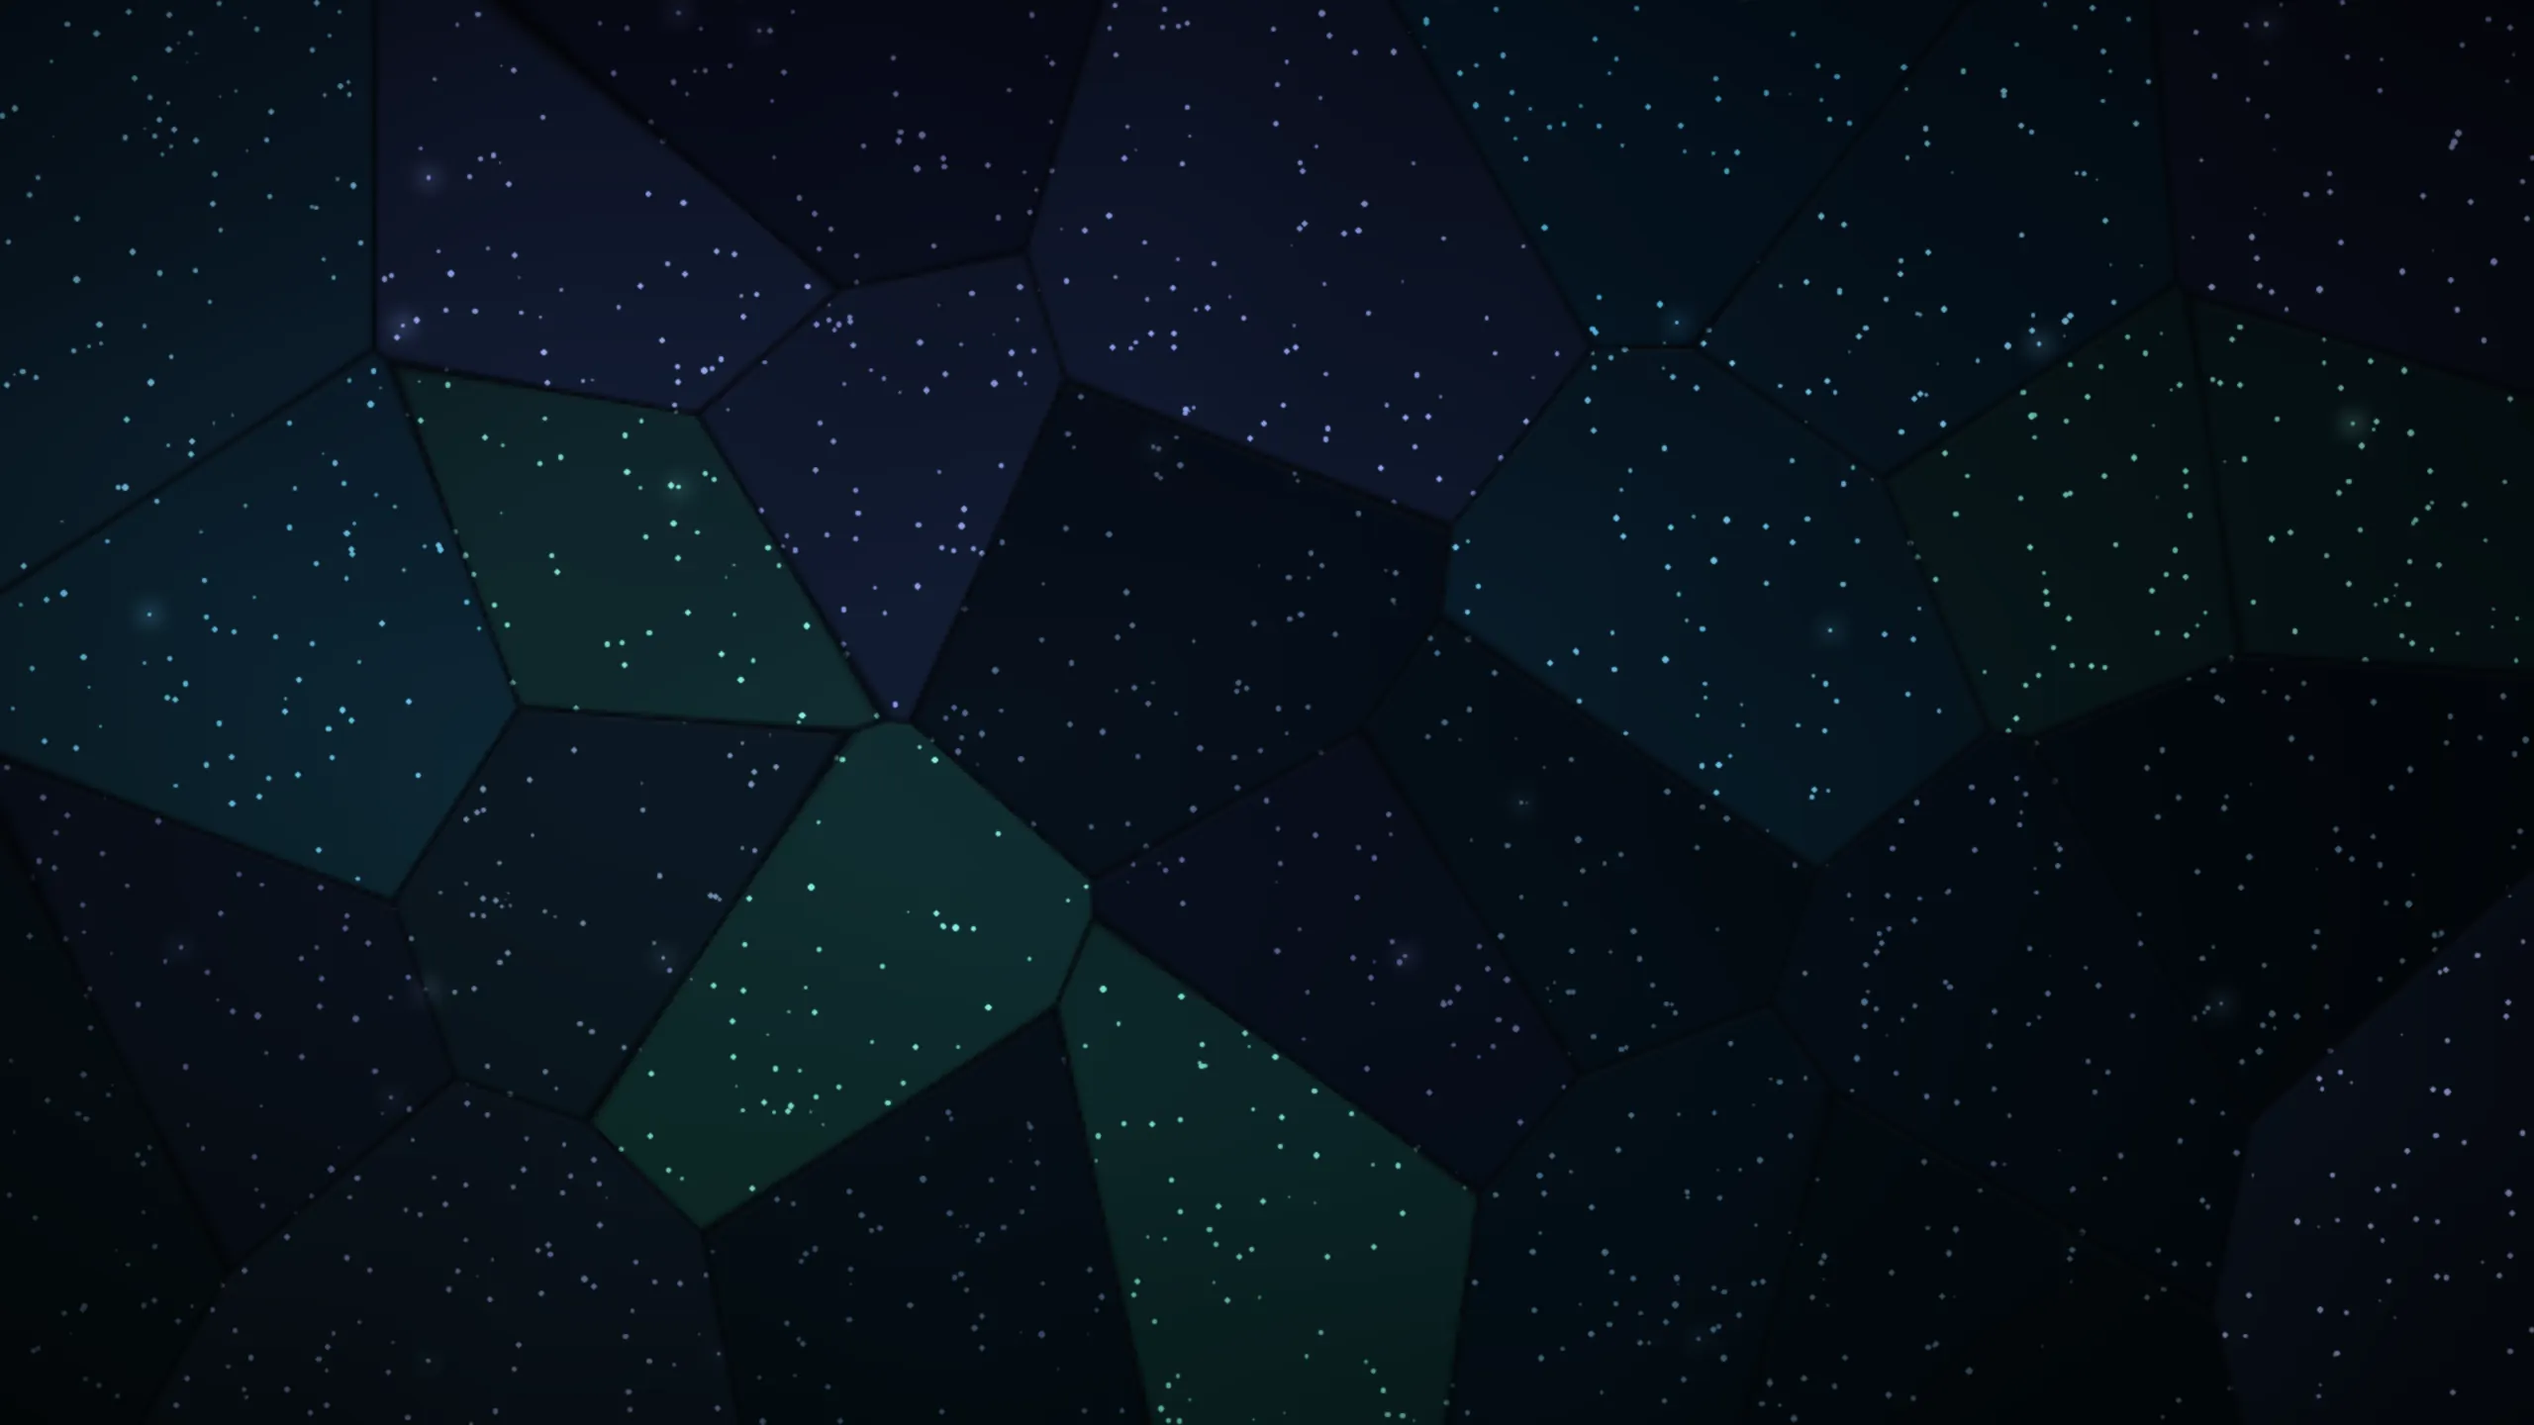
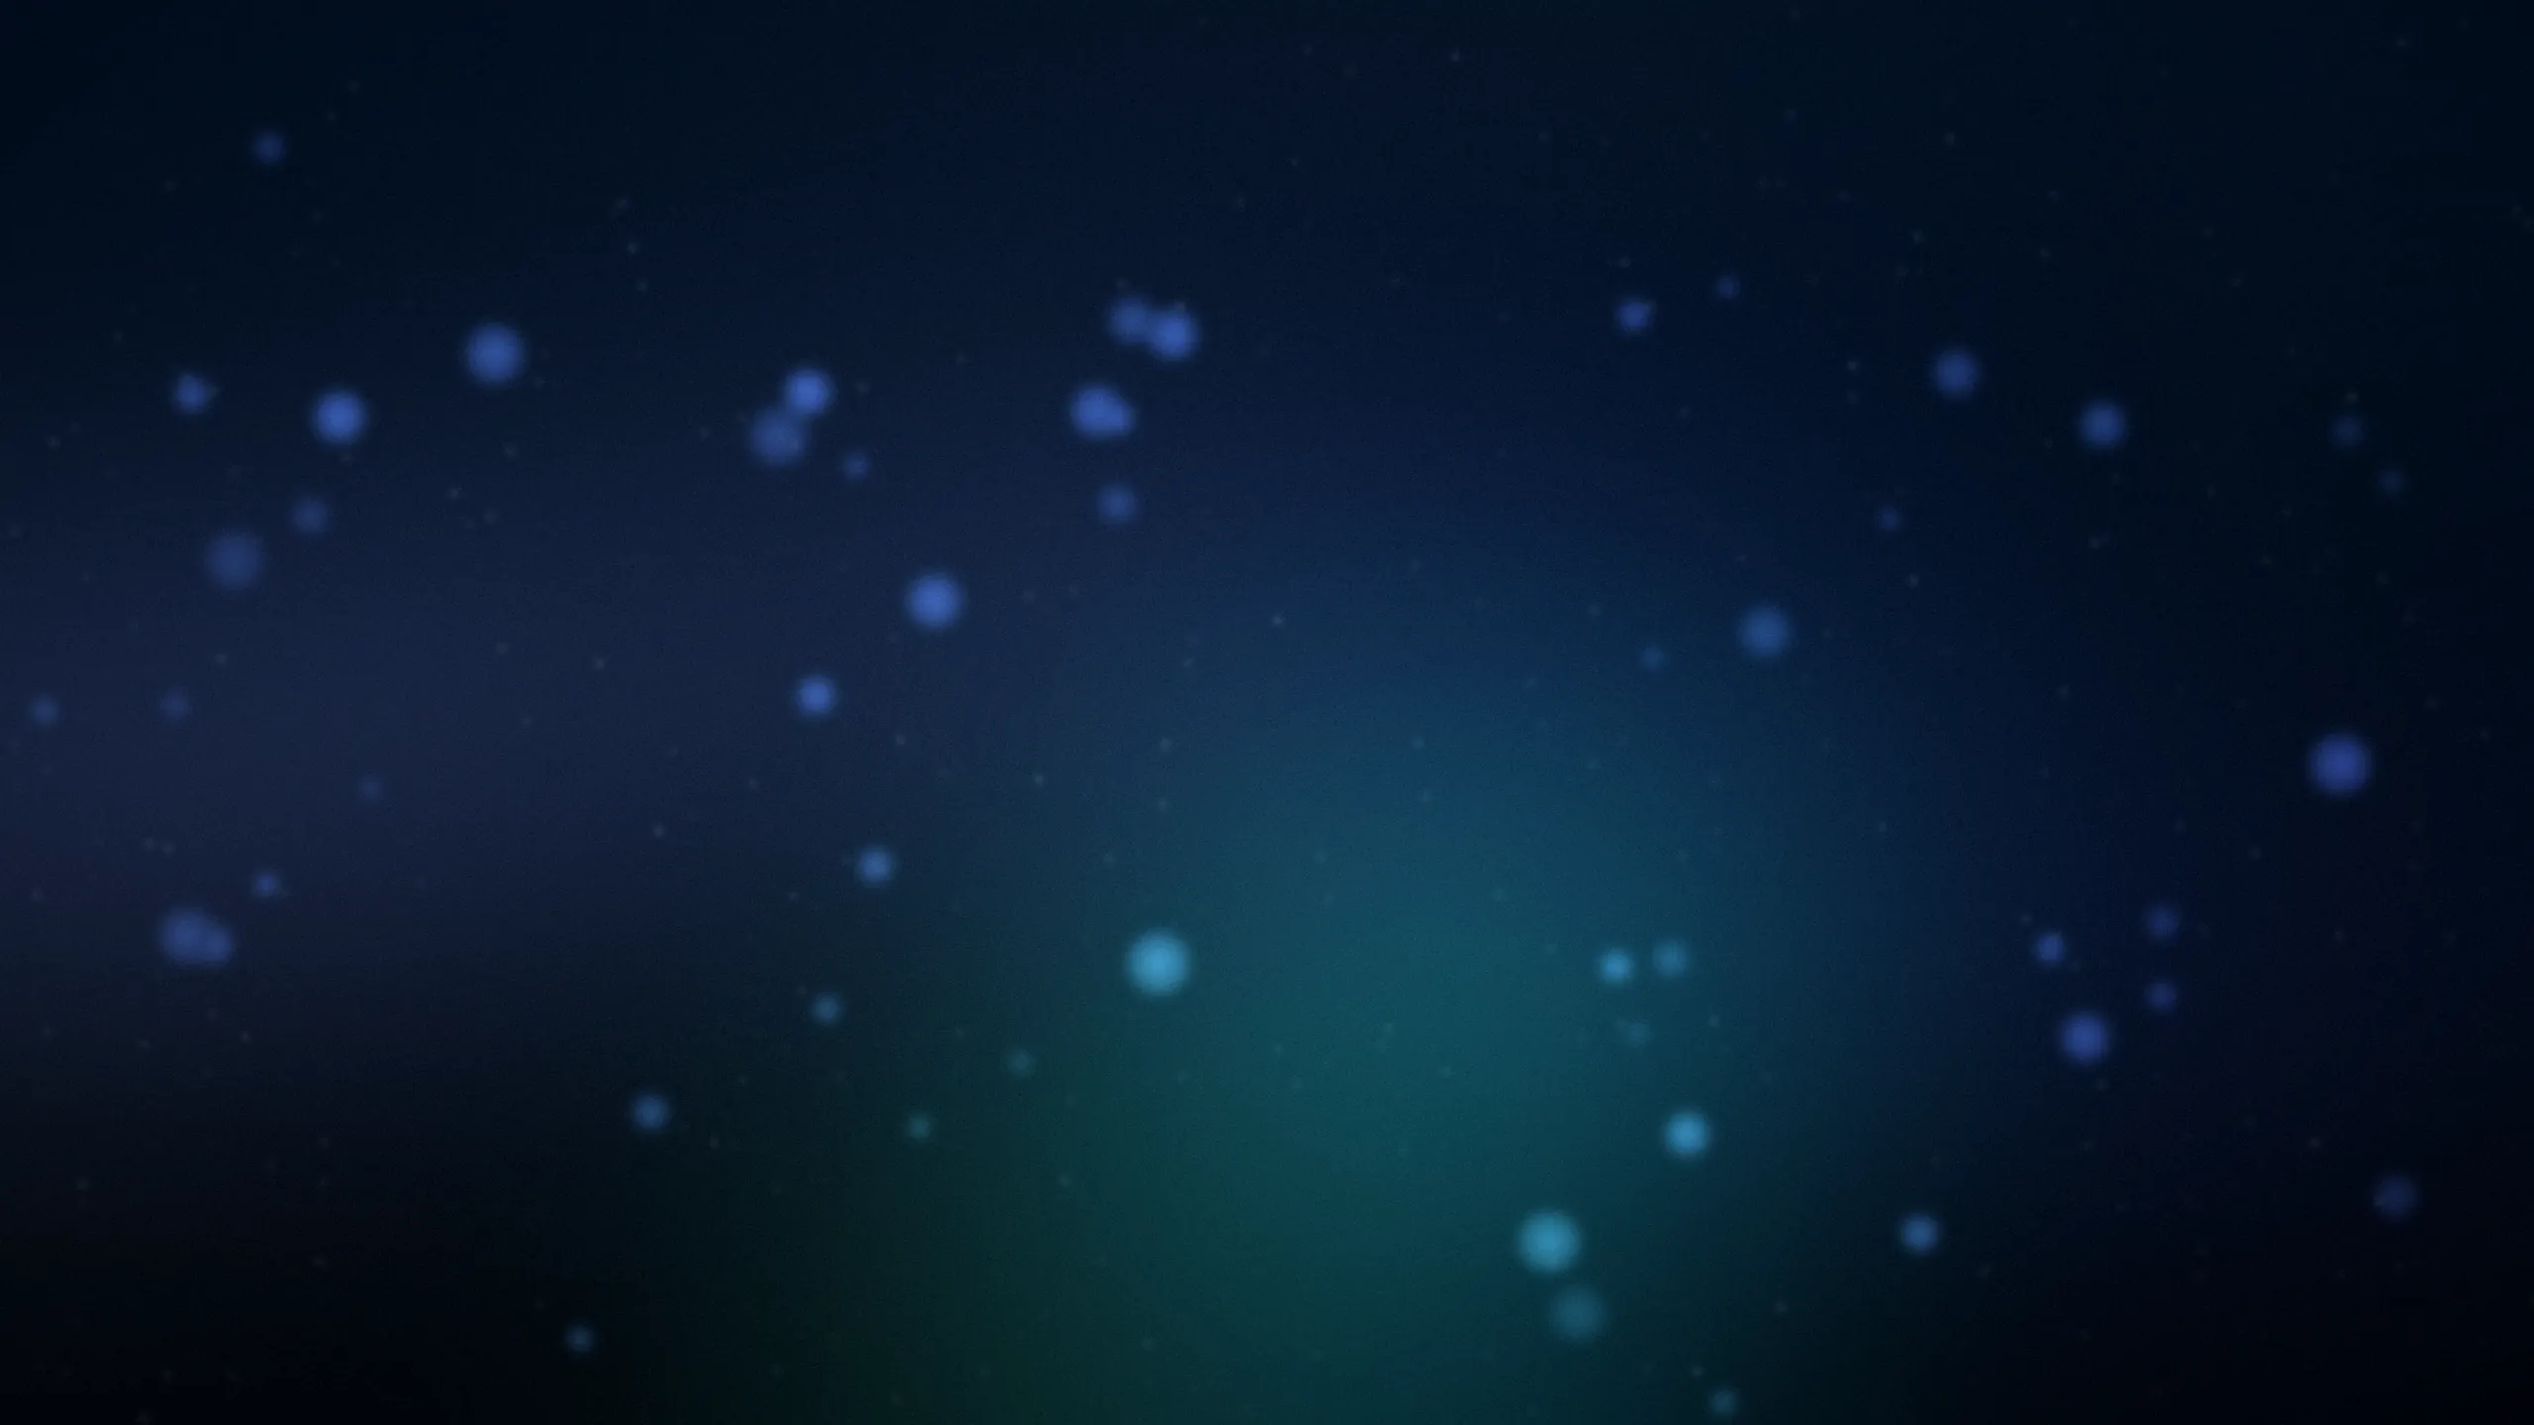
feat(themes): switch console backgrounds from stained glass to acrylic frost
The pane should feel like frosted glass (Windows/macOS acrylic), not a
picture of leaded panes: nebula starfield behind a heavy blur with a
saturation lift, stars as soft bokeh discs tinted by the glass color
under them, a faint raking sheen, and fine noise grain. Same darkness
budget (mean luminance 25/255).

diff --git a/scripts/gen-theme-backgrounds.py b/scripts/gen-theme-backgrounds.py
@@ -1,10 +1,14 @@
 #!/usr/bin/env python3
 """Generate the console background images seeded with the built-in themes.
 
-Each image is "deep space through thick stained glass": a starfield seen
-through irregular leaded glass panes tinted in the owning theme's palette.
+Each image is deep space seen through frosted glass — the acrylic material
+recipe (Windows/macOS): render a nebula starfield, put it behind a heavy
+gaussian blur, lift saturation so the frost doesn't grey it out, let the
+bright stars bloom into soft bokeh discs, then finish with the fine noise
+grain that makes acrylic read as a material instead of a gradient.
+
 Deliberately DARK overall — the image sits behind terminal text, so the
-constraint that matters is that light text stays readable on every pane.
+constraint that matters is that light text stays readable everywhere.
 
 Deterministic (fixed seed per theme) so a re-run reproduces the shipped
 assets byte-for-byte-ish (webp encoder version permitting).
@@ -16,7 +20,7 @@ from __future__ import annotations
 
 import os
 import numpy as np
-from PIL import Image, ImageDraw, ImageFilter
+from PIL import Image, ImageDraw, ImageEnhance, ImageFilter
 
 W, H = 2560, 1440
 OUT_DIR = os.path.join(os.path.dirname(__file__), "..", "src", "assets", "theme-backgrounds")
@@ -27,142 +31,106 @@ def hex_rgb(s: str) -> np.ndarray:
     return np.array([int(s[i : i + 2], 16) for i in (0, 2, 4)], dtype=np.float32) / 255.0
 
 
-def make_starfield(rng: np.random.Generator, top: str, bottom: str, nebulae: list[str]) -> np.ndarray:
-    """Dark gradient sky + soft nebula washes + stars. Returns float RGB [0,1]."""
+def nebula_sky(rng: np.random.Generator, top: str, bottom: str, nebulae: list[str]) -> np.ndarray:
+    """The scene BEHIND the glass: gradient space with billowing nebula clouds.
+    Detail is pointless (the frost erases it) — what matters is where the
+    color masses sit. Returns float RGB [0,1]."""
     t = np.linspace(0, 1, H, dtype=np.float32)[:, None, None]
     sky = hex_rgb(top)[None, None, :] * (1 - t) + hex_rgb(bottom)[None, None, :] * t
     sky = np.repeat(sky, W, axis=1)
 
-    # Nebulae: a few big gaussian blobs of low-alpha tinted light.
+    # Each nebula: a cluster of overlapping soft blobs drifting along a line,
+    # so the color reads as a cloud bank rather than one circular spot.
     for color in nebulae:
-        blob = Image.new("L", (W // 4, H // 4), 0)
-        d = ImageDraw.Draw(blob)
-        cx, cy = rng.uniform(0.1, 0.9) * W / 4, rng.uniform(0.1, 0.9) * H / 4
-        r = rng.uniform(0.18, 0.32) * W / 4
-        d.ellipse([cx - r, cy - r * 0.6, cx + r, cy + r * 0.6], fill=255)
-        blob = blob.filter(ImageFilter.GaussianBlur(r * 0.55))
-        a = np.asarray(blob.resize((W, H), Image.BILINEAR), dtype=np.float32) / 255.0
-        sky += a[:, :, None] * hex_rgb(color)[None, None, :] * 0.16
+        layer = Image.new("L", (W // 8, H // 8), 0)
+        d = ImageDraw.Draw(layer)
+        cx, cy = rng.uniform(0.15, 0.85) * W / 8, rng.uniform(0.15, 0.85) * H / 8
+        ang = rng.uniform(0, 2 * np.pi)
+        for k in range(7):
+            step = (k - 3) * rng.uniform(14, 26)
+            bx, by = cx + np.cos(ang) * step, cy + np.sin(ang) * step * 0.5
+            r = rng.uniform(20, 46)
+            d.ellipse([bx - r, by - r * 0.7, bx + r, by + r * 0.7], fill=int(rng.uniform(120, 220)))
+        layer = layer.filter(ImageFilter.GaussianBlur(24))
+        a = np.asarray(layer.resize((W, H), Image.BILINEAR), dtype=np.float32) / 255.0
+        sky += a[:, :, None] * hex_rgb(color)[None, None, :] * 0.34
+    return sky
 
-    # Stars: power-law brightness, mostly tiny; drawn on a full-res layer.
-    stars = Image.new("L", (W, H), 0)
-    d = ImageDraw.Draw(stars)
-    n = 1600
-    xs, ys = rng.uniform(0, W, n), rng.uniform(0, H, n)
-    mags = rng.power(6.0, n)  # skewed toward dim
-    for x, y, m in zip(xs, ys, mags):
-        b = int(255 * (0.25 + 0.75 * m))
-        r = 0.6 + 2.2 * (m**3)
-        d.ellipse([x - r, y - r, x + r, y + r], fill=b)
-    # A handful of bright stars with a soft glow halo.
-    glow = Image.new("L", (W, H), 0)
-    dg = ImageDraw.Draw(glow)
-    for _ in range(22):
+
+def bokeh_stars(rng: np.random.Generator) -> tuple[np.ndarray, np.ndarray]:
+    """Stars as frosted glass shows them: no points survive the blur, only
+    discs of bloom. Returns (small dust, big discs) as float L [0,1] fields."""
+    field = np.zeros((H, W), dtype=np.float32)
+    # Layer 1: a dust of small dim discs (distant stars just barely blooming).
+    small = Image.new("L", (W, H), 0)
+    d = ImageDraw.Draw(small)
+    for _ in range(300):
         x, y = rng.uniform(0, W), rng.uniform(0, H)
-        r = rng.uniform(5, 11)
-        dg.ellipse([x - r, y - r, x + r, y + r], fill=217)
-        d.ellipse([x - 1.6, y - 1.6, x + 1.6, y + 1.6], fill=255)
-    glow = glow.filter(ImageFilter.GaussianBlur(9))
-    s = (np.asarray(stars, dtype=np.float32) + np.asarray(glow, dtype=np.float32) * 0.45) / 255.0
+        r = rng.uniform(1.2, 3.6)
+        d.ellipse([x - r, y - r, x + r, y + r], fill=int(rng.uniform(45, 115)))
+    small = small.filter(ImageFilter.GaussianBlur(3.5))
+    field += np.asarray(small, dtype=np.float32) / 255.0
 
-    # Thick glass softens points of light a touch.
-    s_img = Image.fromarray((np.clip(s, 0, 1) * 255).astype(np.uint8))
-    s = np.asarray(s_img.filter(ImageFilter.GaussianBlur(0.8)), dtype=np.float32) / 255.0
-
-    star_tint = np.array([0.92, 0.96, 1.0], dtype=np.float32)
-    return sky + s[:, :, None] * star_tint[None, None, :]
-
-
-def voronoi_maps(rng: np.random.Generator, n_cells: int) -> tuple[np.ndarray, np.ndarray]:
-    """Cell index map (H,W) and lead-line mask (H,W) in [0,1], computed at
-    quarter res and upscaled — plenty for panes this large."""
-    w, h = W // 4, H // 4
-    # Jittered grid of seeds → evenly sized panes with organic edges.
-    cols = int(np.ceil(np.sqrt(n_cells * w / h)))
-    rows = int(np.ceil(n_cells / cols))
-    pts = []
-    for j in range(rows):
-        for i in range(cols):
-            pts.append(
-                [
-                    (i + 0.5 + rng.uniform(-0.42, 0.42)) * w / cols,
-                    (j + 0.5 + rng.uniform(-0.42, 0.42)) * h / rows,
-                ]
-            )
-    pts = np.array(pts, dtype=np.float32)
-
-    yy, xx = np.mgrid[0:h, 0:w].astype(np.float32)
-    d = np.sqrt((xx[None] - pts[:, 0, None, None]) ** 2 + (yy[None] - pts[:, 1, None, None]) ** 2)
-    order = np.argsort(d, axis=0)
-    idx = order[0]
-    d1 = np.take_along_axis(d, order[0:1], axis=0)[0]
-    d2 = np.take_along_axis(d, order[1:2], axis=0)[0]
-
-    # Lead line where the two nearest seeds are almost equidistant.
-    edge = d2 - d1
-    lead_w = 2.6  # at quarter res ≈ 10px leading at full res
-    lead = np.clip(1.0 - edge / lead_w, 0.0, 1.0) ** 1.5
-
-    idx_full = np.asarray(
-        Image.fromarray(idx.astype(np.uint8)).resize((W, H), Image.NEAREST), dtype=np.int32
-    )
-    lead_full = np.asarray(
-        Image.fromarray((lead * 255).astype(np.uint8)).resize((W, H), Image.BILINEAR),
-        dtype=np.float32,
-    ) / 255.0
-    return idx_full, lead_full
+    # Layer 2: brighter stars → wide soft bokeh discs with a hotter core.
+    big = Image.new("L", (W, H), 0)
+    d = ImageDraw.Draw(big)
+    for _ in range(52):
+        x, y = rng.uniform(0, W), rng.uniform(0, H)
+        r = rng.uniform(6, 30)
+        b = rng.uniform(0.35, 1.0)
+        d.ellipse([x - r, y - r, x + r, y + r], fill=int(140 * b))
+        rc = r * 0.45
+        d.ellipse([x - rc, y - rc, x + rc, y + rc], fill=int(220 * b))
+    big = big.filter(ImageFilter.GaussianBlur(7))
+    return np.clip(field, 0, 1), np.asarray(big, dtype=np.float32) / 255.0
 
 
-def stained_glass(
+def acrylic(
     theme_id: str,
     seed: int,
     sky_top: str,
     sky_bottom: str,
     nebulae: list[str],
-    pane_tints: list[str],
-    lead_color: str = "#05070c",
+    star_tint: str = "#e8f2ff",
 ) -> None:
     rng = np.random.default_rng(seed)
-    base = make_starfield(rng, sky_top, sky_bottom, nebulae)
-    idx, lead = voronoi_maps(rng, n_cells=26)
-    n = int(idx.max()) + 1
+    scene = nebula_sky(rng, sky_top, sky_bottom, nebulae)
 
-    # Per-pane transmission color: mostly-clear glass multiplied by a tint,
-    # plus a faint body glow so the glass reads as material, not a filter.
-    tints = np.stack([hex_rgb(pane_tints[i % len(pane_tints)]) for i in rng.permutation(n)])
-    strength = rng.uniform(0.55, 0.8, n).astype(np.float32)
-    brightness = rng.uniform(0.85, 1.1, n).astype(np.float32)
+    # ——— The frost. Heavy blur is what says "glass"; the saturation lift
+    # afterwards is what keeps the frost from greying the color out.
+    img = Image.fromarray((np.clip(scene, 0, 1) * 255).astype(np.uint8))
+    img = img.filter(ImageFilter.GaussianBlur(48))
+    img = ImageEnhance.Color(img).enhance(1.35)
+    out = np.asarray(img, dtype=np.float32) / 255.0
 
-    trans = (1 - strength[:, None]) + strength[:, None] * tints  # (n,3)
-    px_trans = trans[idx] * brightness[idx, None]
-    glow = tints[idx] * 0.050
+    # Bokeh star bloom sits ON the frosted layer (light sources bloom against
+    # the glass; they don't get erased like detail does). The small dust stays
+    # near-white; the big discs pick up the glass's own color where they sit,
+    # like light sources seen THROUGH the tint rather than painted on it.
+    dust, big = bokeh_stars(rng)
+    out += dust[:, :, None] * hex_rgb(star_tint)[None, None, :] * 0.5
+    local = np.clip(out / np.maximum(out.mean(axis=2, keepdims=True), 1e-4), 0.6, 1.6)
+    out += big[:, :, None] * hex_rgb(star_tint)[None, None, :] * local * 0.5
 
-    out = base * px_trans + glow
-
-    # Subtle directional streaks inside each pane (rolled glass texture).
+    # A faint diagonal sheen — one broad highlight, like light raking a pane.
     yy, xx = np.mgrid[0:H, 0:W].astype(np.float32)
-    angles = rng.uniform(0, np.pi, n).astype(np.float32)
-    freq = rng.uniform(0.010, 0.022, n).astype(np.float32)
-    phase = rng.uniform(0, 2 * np.pi, n).astype(np.float32)
-    coord = xx * np.cos(angles[idx]) + yy * np.sin(angles[idx])
-    streak = 1.0 + 0.028 * np.sin(coord * freq[idx] + phase[idx])
-    out *= streak[:, :, None]
+    band = (xx / W) * 0.6 + (yy / H) * 0.4
+    sheen = np.exp(-(((band - 0.32) / 0.16) ** 2))
+    out += sheen[:, :, None] * 0.020
 
-    # Leading: dark cames with a hair of top-light bevel.
-    lead_rgb = hex_rgb(lead_color)
-    bevel = np.roll(lead, 3, axis=0) - lead  # lighter just below the top edge
-    out = out * (1 - lead[:, :, None]) + lead_rgb[None, None, :] * lead[:, :, None]
-    out += np.clip(bevel, 0, 1)[:, :, None] * 0.05
+    # Acrylic's signature: fine monochrome grain at a few percent.
+    grain = rng.standard_normal((H, W)).astype(np.float32)
+    out += grain[:, :, None] * 0.015
 
-    # Vignette, then hold the overall level down: this sits behind text.
+    # Gentle vignette, then hold the level down: this sits behind text.
     vx = (xx / W - 0.5) ** 2 + (yy / H - 0.5) ** 2
-    out *= (1.0 - 0.55 * vx * 2.2)[:, :, None]
+    out *= (1.0 - 0.35 * vx * 2.2)[:, :, None]
     out = np.clip(out, 0, 1) * 0.92
 
     img = Image.fromarray((out * 255).astype(np.uint8))
     os.makedirs(OUT_DIR, exist_ok=True)
     path = os.path.join(OUT_DIR, f"{theme_id}-bg.webp")
-    img.save(path, "WEBP", quality=78, method=6)
+    img.save(path, "WEBP", quality=80, method=6)
     arr = np.asarray(img).astype(np.float32)
     lum = (0.2126 * arr[..., 0] + 0.7152 * arr[..., 1] + 0.0722 * arr[..., 2]).mean()
     print(f"{path}: {os.path.getsize(path) // 1024} KiB, mean luminance {lum:.1f}/255")
@@ -170,11 +138,10 @@ def stained_glass(
 
 if __name__ == "__main__":
     # Abyss: lightless blue water column — cyan / lure-green / jelly-violet.
-    stained_glass(
+    acrylic(
         "abyss",
         seed=7,
-        sky_top="#050b16",
-        sky_bottom="#020509",
-        nebulae=["#38b6d8", "#8f9ff0", "#5fe0b7"],
-        pane_tints=["#38b6d8", "#5fe0b7", "#8f9ff0", "#1b3a5f", "#123a55", "#2c2f6e"],
+        sky_top="#071528",
+        sky_bottom="#02060c",
+        nebulae=["#38b6d8", "#8f9ff0", "#5fe0b7", "#2c2f6e"],
     )
